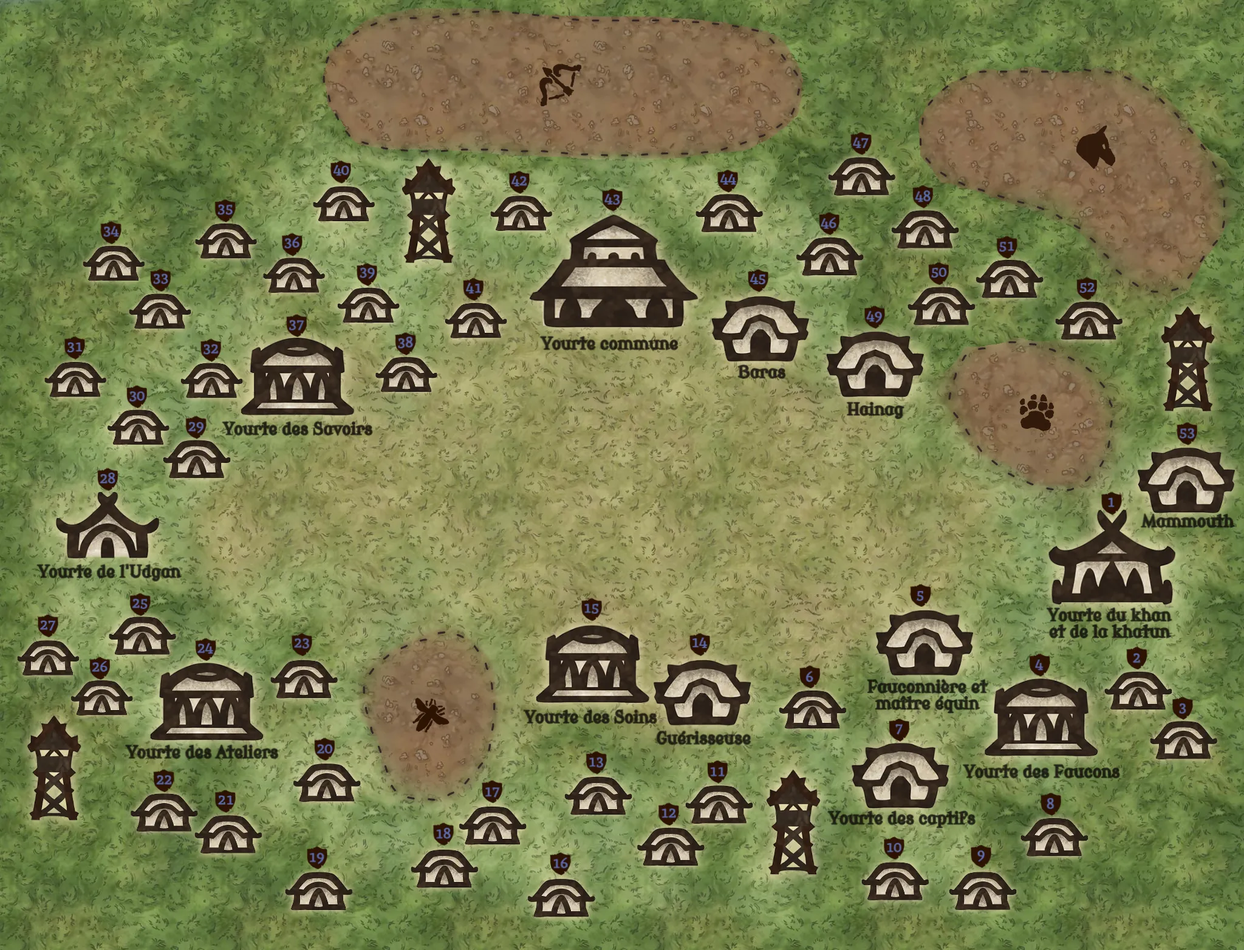
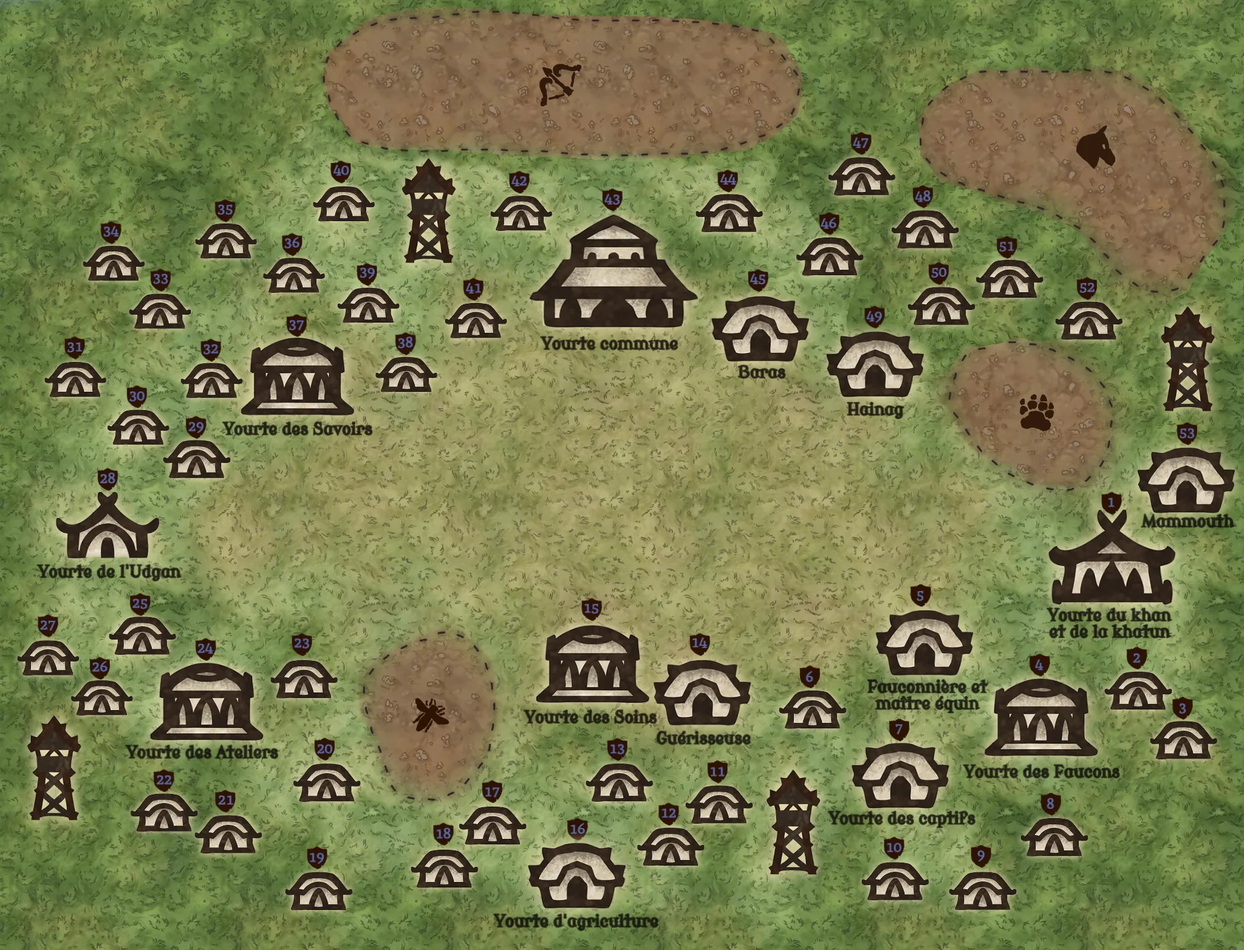
Carte de l'Iloh : nouvelle version avec la Yourte d'agriculture (n° 16)
Claude-Session: https://claude.ai/code/session_01LHzA9mV2Edj6aGXyVu1et9

Changed region(s): [[0.4062, 0.7673, 0.5312, 0.9821]]

diff --git a/dev/apercu.html b/dev/apercu.html
@@ -1222,7 +1222,7 @@ const YURTS = {
   13: { x:48.0, y:80.18, kind:'libre' },
   14: { x:56.3, y:67.71, chars:['cheyenne'], map:'Guérisseuse', size:'m' },
   15: { x:47.56, y:64.07, kind:'lieu', label:'Yourte des Soins', size:'l' },
-  16: { x:45.07, y:90.86, kind:'libre' },
+  16: { x:46.45, y:87.28, kind:'lieu', label:"Yourte d'agriculture", size:'m' },
   17: { x:39.6, y:83.25, kind:'libre' },
   18: { x:35.69, y:87.72, kind:'libre' },
   19: { x:25.54, y:90.22, chars:['shiruun'] },

diff --git a/app.js b/app.js
@@ -391,7 +391,7 @@ const YURTS = {
   13: { x:48.0, y:80.18, kind:'libre' },
   14: { x:56.3, y:67.71, chars:['cheyenne'], map:'Guérisseuse', size:'m' },
   15: { x:47.56, y:64.07, kind:'lieu', label:'Yourte des Soins', size:'l' },
-  16: { x:45.07, y:90.86, kind:'libre' },
+  16: { x:46.45, y:87.28, kind:'lieu', label:"Yourte d'agriculture", size:'m' },
   17: { x:39.6, y:83.25, kind:'libre' },
   18: { x:35.69, y:87.72, kind:'libre' },
   19: { x:25.54, y:90.22, chars:['shiruun'] },

diff --git a/test/app.js b/test/app.js
@@ -391,7 +391,7 @@ const YURTS = {
   13: { x:48.0, y:80.18, kind:'libre' },
   14: { x:56.3, y:67.71, chars:['cheyenne'], map:'Guérisseuse', size:'m' },
   15: { x:47.56, y:64.07, kind:'lieu', label:'Yourte des Soins', size:'l' },
-  16: { x:45.07, y:90.86, kind:'libre' },
+  16: { x:46.45, y:87.28, kind:'lieu', label:"Yourte d'agriculture", size:'m' },
   17: { x:39.6, y:83.25, kind:'libre' },
   18: { x:35.69, y:87.72, kind:'libre' },
   19: { x:25.54, y:90.22, chars:['shiruun'] },

diff --git a/index.html b/index.html
@@ -872,6 +872,6 @@ button.link.danger { color: #e0a24d; }
 <div class="sync-state" id="sync-state" aria-live="polite"></div>
 </div>
 
-<script src="app.js?v=556b6b8f77" charset="utf-8"></script>
+<script src="app.js?v=21de0414f3" charset="utf-8"></script>
 <script type="module" src="sync.js?v=c15710742f"></script>
 

diff --git a/test/index.html b/test/index.html
@@ -873,6 +873,6 @@ button.link.danger { color: #e0a24d; }
 <div class="sync-state" id="sync-state" aria-live="polite"></div>
 </div>
 
-<script src="app.js?v=556b6b8f77" charset="utf-8"></script>
+<script src="app.js?v=21de0414f3" charset="utf-8"></script>
 <script type="module" src="sync.js?v=c15710742f"></script>
 
